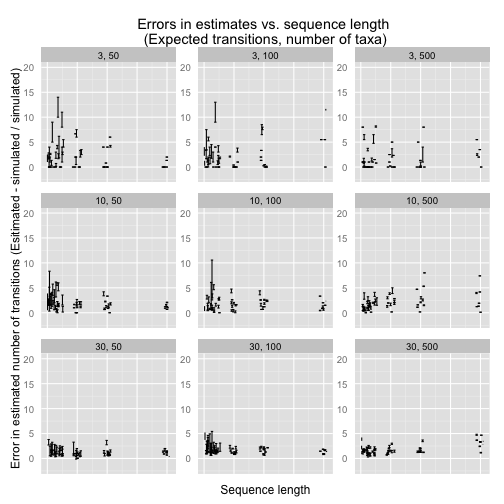
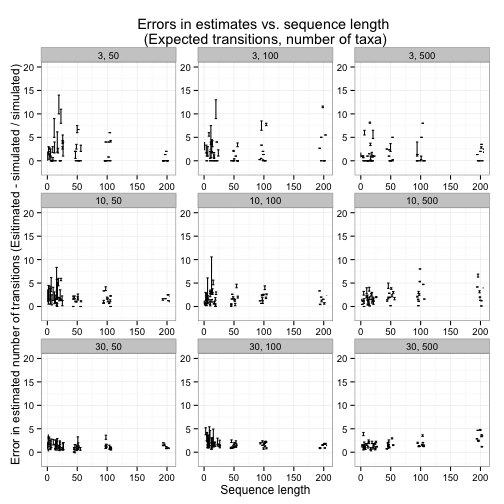
updated with errors as ratio

diff --git a/README.md b/README.md
@@ -56,7 +56,7 @@ dat1.1 <- dat_raw
 dat1.1$ntax <- factor(dat1.1$ntax)
 dat1.1$slen <- factor(dat1.1$slen)
 
-plot1.1 <- ggplot(dat1.1, aes(x = jitter(sim_t), y = ((error_max - error_min) / 2) + error_min)) + geom_errorbar(aes(ymin = min_t , ymax = max_t), width = 0.5) + xlab('Simulated number of transitions') + ylab('Estimated number of transitions') + geom_abline(intercept = 0, slope = 1) + ylim(0, 75) + xlim(0, 30) + facet_wrap(~slen + ntax, ncol = 3) + ggtitle('Estimated vs. simulated number of transitions \n(Sequence length, number of taxa)')
+plot1.1 <- ggplot(dat1.1, aes(x = jitter(sim_t), y = ((error_max - error_min) / 2) + error_min)) + geom_errorbar(aes(ymin = min_t , ymax = max_t), width = 0.5) + xlab('Simulated number of transitions') + ylab('Estimated number of transitions') + geom_abline(intercept = 0, slope = 1) + ylim(0, 75) + xlim(0, 30) + facet_wrap(~slen + ntax, ncol = 3) + ggtitle('Estimated vs. simulated number of transitions \n(Sequence length, number of taxa)') + theme_bw()
 
 print(plot1.1)
 ```
@@ -73,7 +73,7 @@ dat1.2$slen[dat1.2$slen == 1000] <- dat1.2$slen[dat1.2$slen == 1000] - 800
 dat1.2$exp_t <- factor(dat1.2$exp_t)
 dat1.2$slen <- jitter(dat1.2$slen, amount = 7)
 
-plot1.2 <- ggplot(dat1.2, aes(x = slen, y =  ((error_max - error_min) / 2) + error_min)) + geom_errorbar(aes(ymin = error_min, ymax = error_max), width = 4) + xlim(0, 205) + facet_wrap(~exp_t + ntax, scales = 'free') + ylim(-2, 20) + ylab('Error in estimated number of transitions (Esitimated - simulated / simulated)') + xlab('Sequence length') + ggtitle('Errors in estimates vs. sequence length \n(Expected transitions, number of taxa)') + theme(axis.ticks = element_blank(), axis.text.x = element_blank())
+plot1.2 <- ggplot(dat1.2, aes(x = slen, y =  ((error_max - error_min) / 2) + error_min)) + geom_errorbar(aes(ymin = error_min, ymax = error_max), width = 4) + xlim(0, 205) + facet_wrap(~exp_t + ntax, scales = 'free') + ylim(-2, 20) + ylab('Error in estimated number of transitions (Esitimated - simulated / simulated)') + xlab('Sequence length') + ggtitle('Errors in estimates vs. sequence length \n(Expected transitions, number of taxa)') + theme(axis.ticks = element_blank(), axis.text.x = element_blank()) + theme_bw()
 
 print(plot1.2)
 ```
